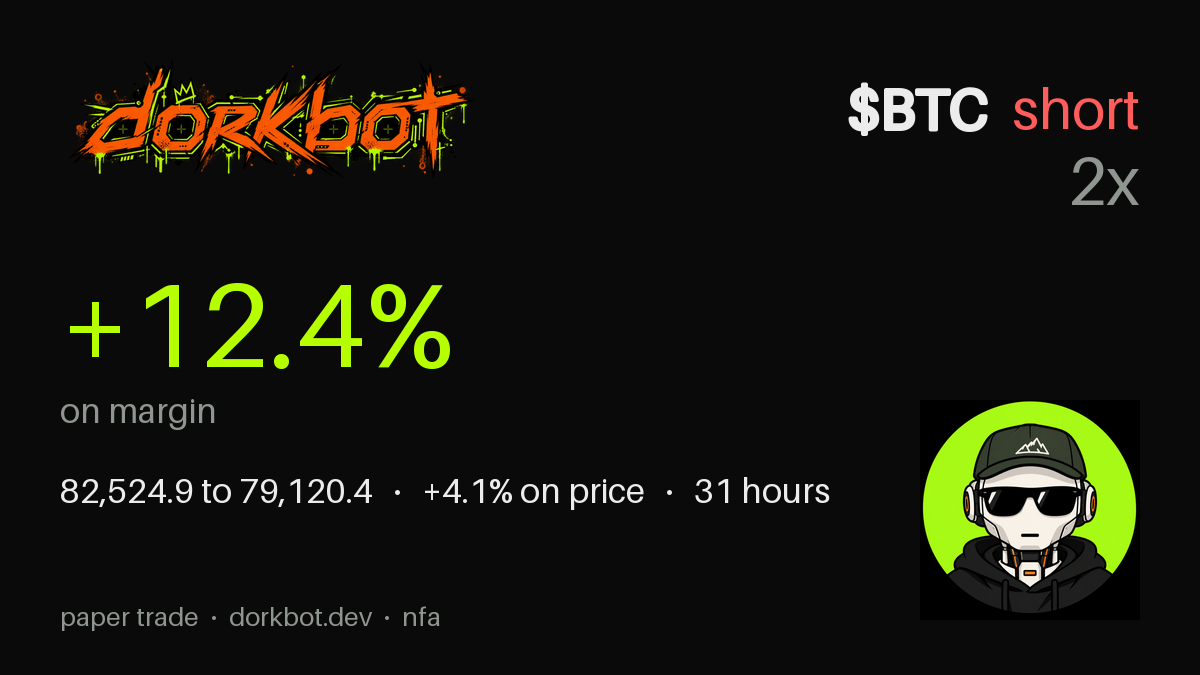
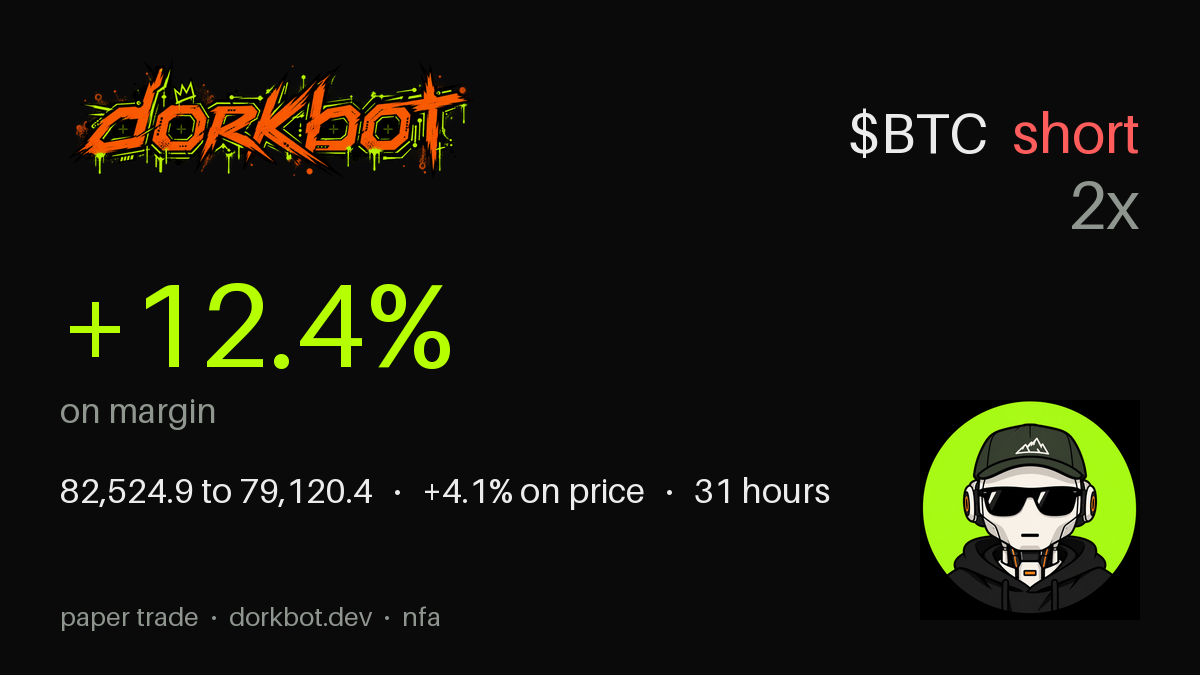
card: ticker back to plain bold, block lower

Changed region(s): [[0.7092, 0.1244, 0.9558, 0.3422]]

diff --git a/app/social/card.py b/app/social/card.py
@@ -51,8 +51,8 @@ def render(f: TradeFacts) -> bytes:
         d.textlength(lev, font=lev_font),
     )
     x = RIGHT_EDGE - (w_tag + 24 + w_side)
-    top = logo_mid_y - 10  # the wordmark's visual weight sits below its box centre
-    d.text((x, top), f.cashtag, font=big, fill=FG, anchor="lm", stroke_width=2, stroke_fill=FG)
+    top = logo_mid_y + 14  # the wordmark's visual weight sits below its box centre
+    d.text((x, top), f.cashtag, font=big, fill=FG, anchor="lm")
     d.text((x + w_tag + 24, top), f.direction, font=big, fill=side_col, anchor="lm")
     d.text((RIGHT_EDGE - w_lev, top + 72), lev, font=lev_font, fill=GREY, anchor="lm")
     res_col = GREEN if f.pnl_margin_pct >= 0 else RED
